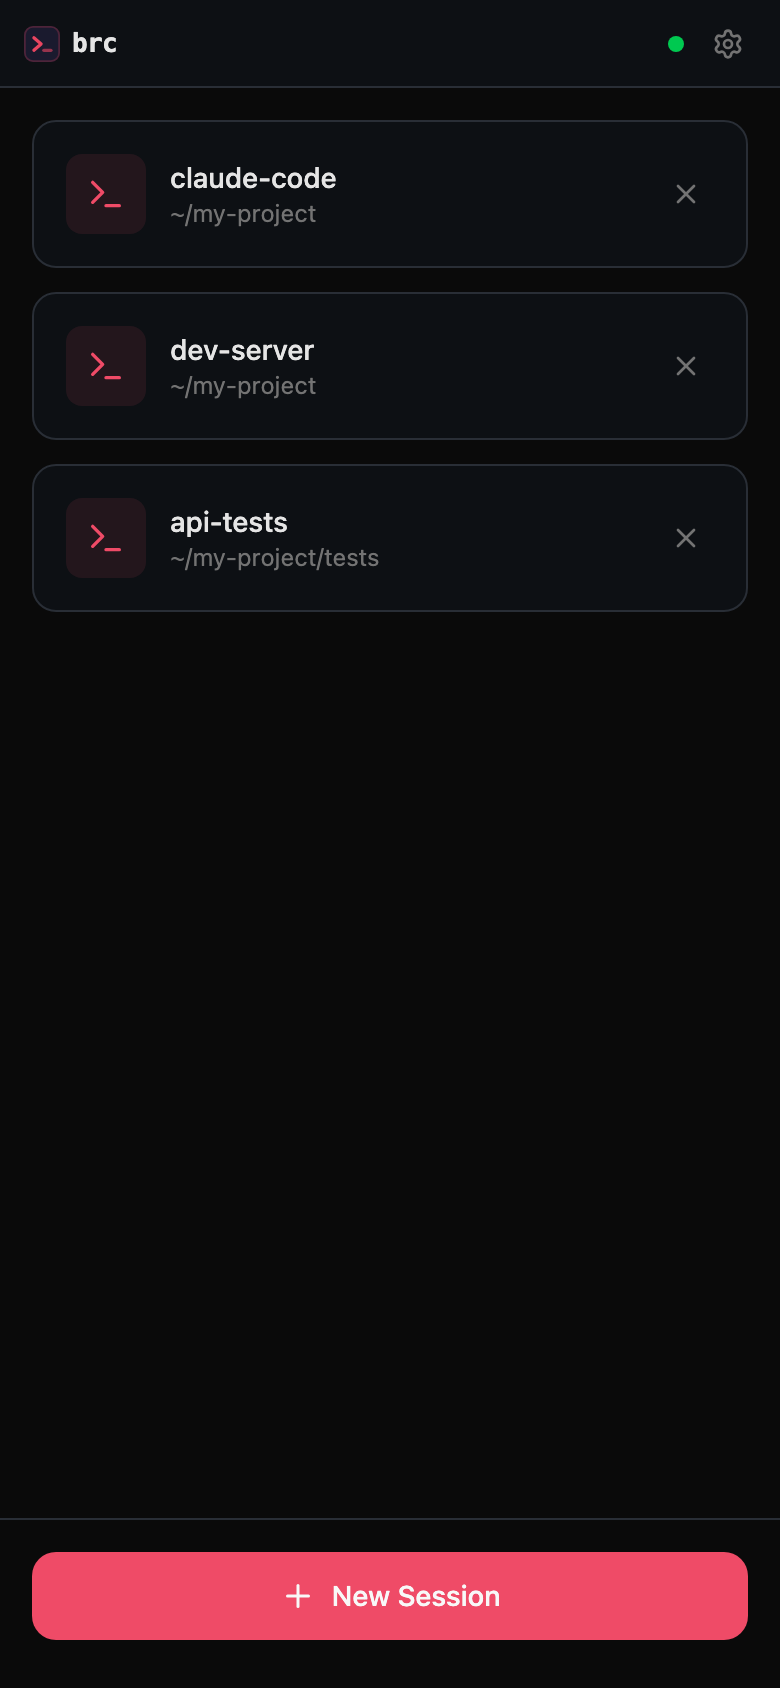
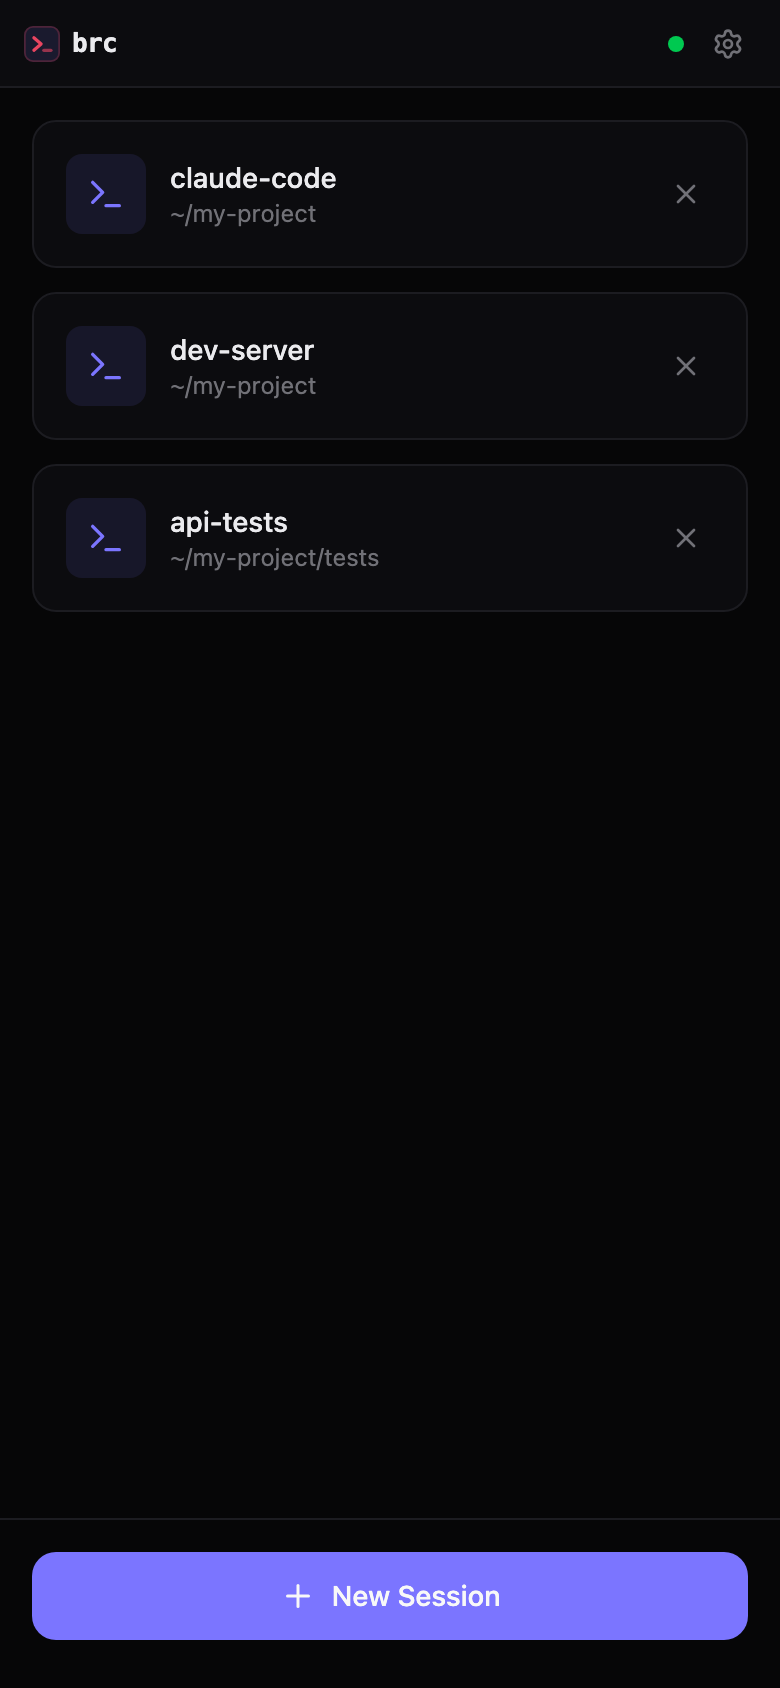
style: update storybook stories and screenshots for new theme

Changed region(s): [[0.0308, 0.8934, 0.9846, 0.9858], [0.1231, 0.3081, 0.1538, 0.3389], [0.1231, 0.0924, 0.1538, 0.1232]]

diff --git a/client/src/components/__stories__/quick-keys.stories.tsx b/client/src/components/__stories__/quick-keys.stories.tsx
@@ -17,7 +17,7 @@ type Story = StoryObj<typeof QuickKeys>;
 
 export const Default: Story = {
   render: () => (
-    <div style={{ position: "fixed", bottom: 0, left: 0, right: 0, background: "#1a1a2e" }}>
+    <div style={{ position: "fixed", bottom: 0, left: 0, right: 0, background: "#17141f" }}>
       <QuickKeys activeSessionId="test-session" send={(msg) => console.log("send:", msg)} />
     </div>
   ),
@@ -25,7 +25,7 @@ export const Default: Story = {
 
 export const NoSession: Story = {
   render: () => (
-    <div style={{ position: "fixed", bottom: 0, left: 0, right: 0, background: "#1a1a2e" }}>
+    <div style={{ position: "fixed", bottom: 0, left: 0, right: 0, background: "#17141f" }}>
       <QuickKeys activeSessionId={null} send={() => {}} />
     </div>
   ),

diff --git a/client/src/components/__stories__/showcase.stories.tsx b/client/src/components/__stories__/showcase.stories.tsx
@@ -101,7 +101,7 @@ export const TerminalWithClaude: Story = {
           style={{
             flex: 1,
             overflow: "hidden",
-            background: "#1a1a2e",
+            background: "#17141f",
             padding: "8px 12px",
           }}
         >
@@ -113,7 +113,7 @@ export const TerminalWithClaude: Story = {
               display: "inline-block",
               width: 8,
               height: 14,
-              background: "#e94560",
+              background: "#8b5cf6",
               animation: "blink 1s step-end infinite",
               marginTop: 4,
             }}

diff --git a/client/src/components/__stories__/breadcrumb-nav.stories.tsx b/client/src/components/__stories__/breadcrumb-nav.stories.tsx
@@ -23,7 +23,7 @@ function BreadcrumbNavWithState({ initialPath }: { initialPath: string }) {
   const [path, setPath] = useState(initialPath);
 
   return (
-    <div style={{ background: "#1a1a2e" }}>
+    <div style={{ background: "#17141f" }}>
       <BreadcrumbNav path={path} onNavigate={setPath} />
       <p style={{ color: "#888", fontSize: 12, padding: "8px 16px" }}>Current path: {path}</p>
     </div>

diff --git a/client/src/components/__stories__/session-card.stories.tsx b/client/src/components/__stories__/session-card.stories.tsx
@@ -13,7 +13,7 @@ const meta: Meta<typeof SessionCard> = {
   decorators: [
     (Story) => (
       <MockRouterProvider>
-        <div style={{ padding: 16, background: "#1a1a2e" }}>
+        <div style={{ padding: 16, background: "#17141f" }}>
           <Story />
         </div>
       </MockRouterProvider>

diff --git a/client/src/components/__stories__/directory-list.stories.tsx b/client/src/components/__stories__/directory-list.stories.tsx
@@ -11,7 +11,7 @@ const meta: Meta<typeof DirectoryList> = {
   },
   decorators: [
     (Story) => (
-      <div style={{ background: "#1a1a2e", minHeight: "100dvh" }}>
+      <div style={{ background: "#17141f", minHeight: "100dvh" }}>
         <Story />
       </div>
     ),
